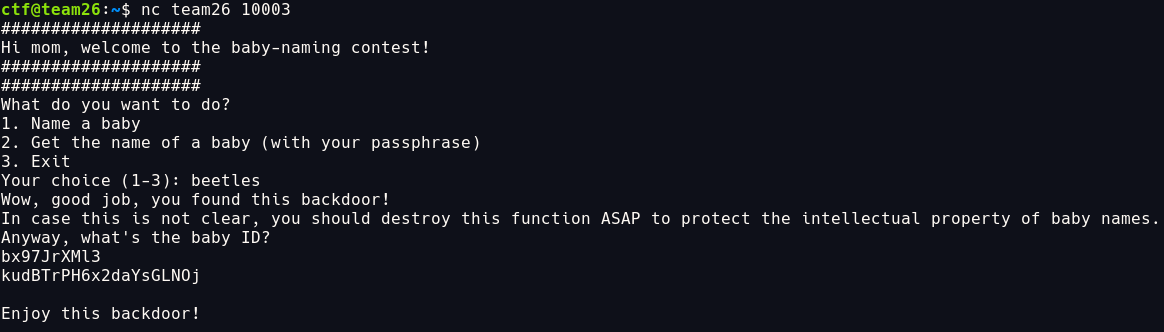
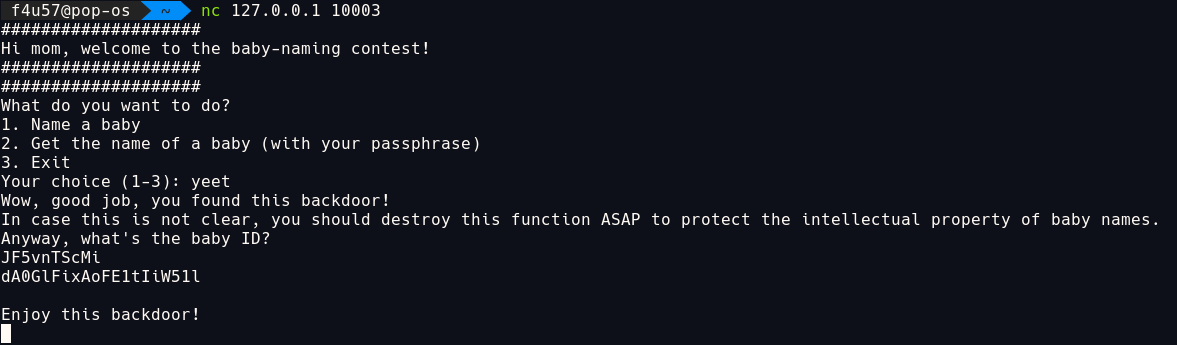
updated screenshots

Changed region(s): [[0.0, 0.0, 0.9897, 0.8434], [0.0, 0.8735, 0.1856, 0.994]]

diff --git a/docs/_posts/2021-11-13-actf3-writup.md b/docs/_posts/2021-11-13-actf3-writup.md
@@ -13,7 +13,8 @@ Before we start, I want to thank:
 
 # Intro
 
-This weekend, I played my first attack and defend style CTF with *@SirSquibbins* under team **sashimi**. This CTF was very cool and well organized. I also liked the 4 hours length, short enough to spare my monitor for another day (:anger::punch::computer:), long enough to learn and practice something cool.
+This weekend, I played my first attack and defend style CTF with *@SirSquibbins* under team **sashimi**. 
+This CTF was very cool and well organized. I also liked the 4 hours length, short enough to spare my monitor for another day (:anger::punch::computer:), long enough to learn and practice something cool.
 
 # Setting up and picking a challenge
 
@@ -52,6 +53,8 @@ So, the main service function takes an input and calls different functions accor
 - `yeet` ➡ `backdoor()`
 - `3` ➡ `print bye message`
 - `anything else` ➡ `print error message`
+
+![](../assets/posts/2021-11-13-actf3-writup/images/main-serv.png)
 
 Let's break down the functions.
 
